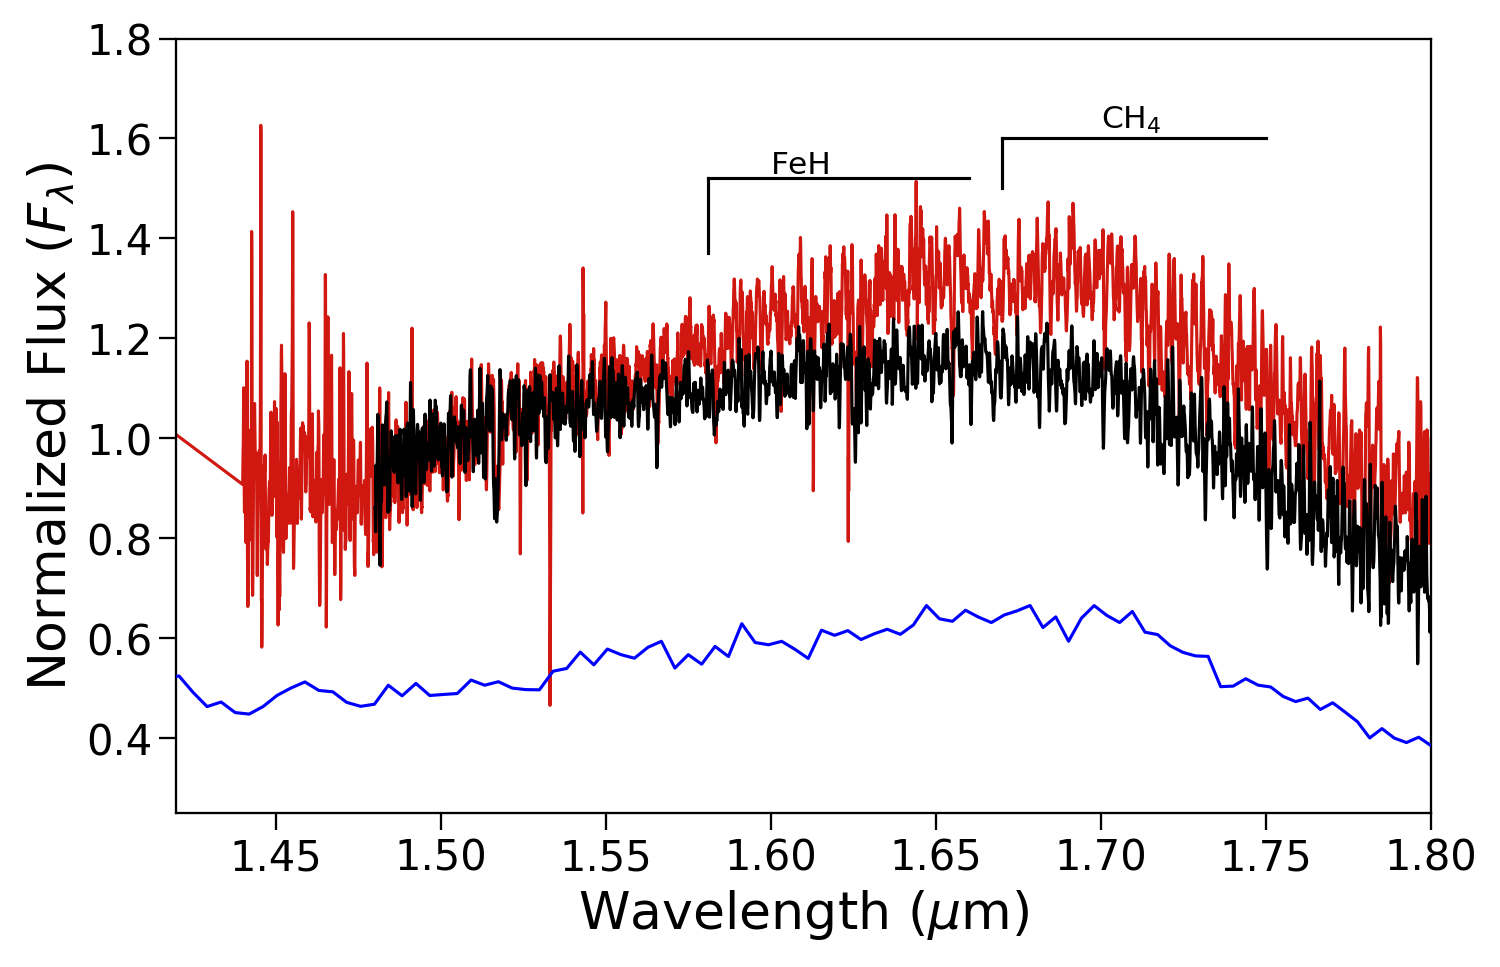
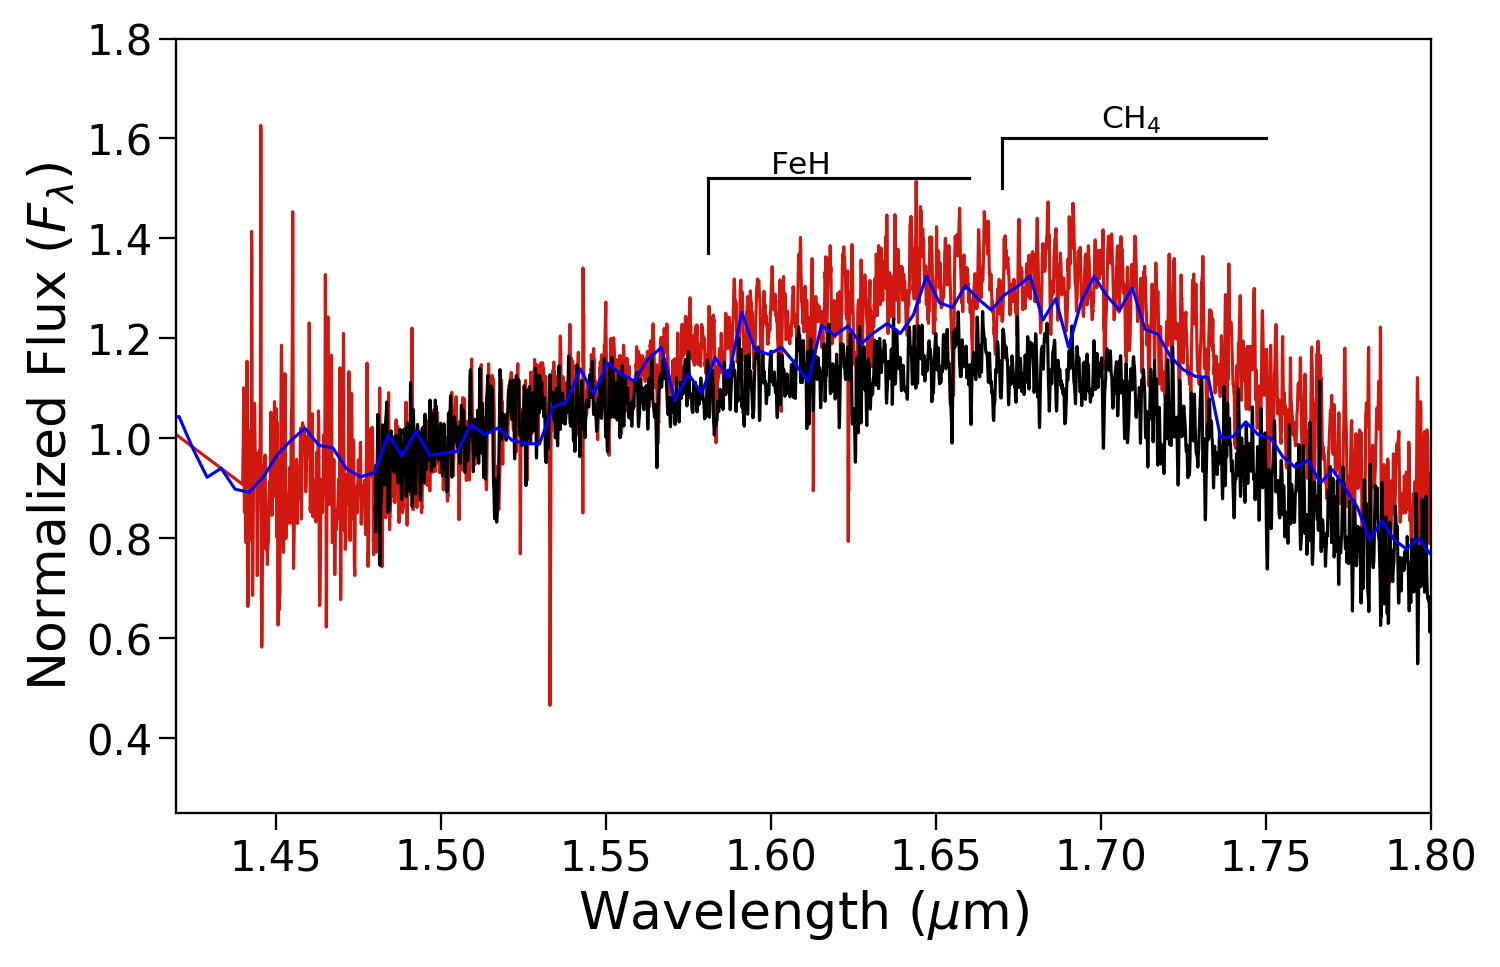
All though of comparisons fro Trappist paper.

diff --git a/JHKband_oldcomp.py b/JHKband_oldcomp.py
@@ -1,0 +1,145 @@
+import pandas as pd
+import numpy as np
+import matplotlib.pyplot as plt
+
+# ------------------------------------------------------------------------------------
+# ------------------- Read in Spectra and Photometry files ---------------------------
+# ------------------------------------------------------------------------------------
+# Read  all in as pandas dataframes
+
+df_trap = pd.read_csv('Data/FIRE2306-0502 (M7.5) SED.txt', sep=" ", comment='#', header=None,
+                      names=["w", "f", "err"])
+
+# -------------- Comparison objects of the same Teff (old) ----------------------------------
+df_GJ660 = pd.read_csv('Data/old_comp/spectra_gj6601b.txt', sep="\t", comment='#', header=0,
+                       names=["w", "f", "err"])
+df_1013 = pd.read_csv('../Atmospheres_paper/Data/1013-1356 (-) SED.txt', sep=" ", comment='#', header=None,
+                      names=["w", "f", "err"])
+
+# -------------------------------------------------------------------------------------
+# ---------------------- Remove Tails ------------------------------------------------
+# -------------------------------------------------------------------------------------
+df_GJ660 = df_GJ660[(df_GJ660['w'] > 0.7) & (df_GJ660['w'] <= 3)]
+
+# -------------------------------------------------------------------------------------
+# ------------------------- Normalize the spectra -------------------------------------
+# -------------------------------------------------------------------------------------
+# Determine region good for all spectra to take the average flux over
+norm_region = df_trap[(df_trap['w'] >= 1.29) & (df_trap['w'] <= 1.31)]
+norm_df_trap = df_trap['f']/(np.average(norm_region['f']))
+
+norm_region2 = df_GJ660[(df_GJ660['w'] >=1.29) & (df_GJ660['w'] <= 1.31)]
+norm_df_GJ660 = df_GJ660['f']/(np.average(norm_region2['f']))
+
+norm_region3 = df_1013[(df_1013['w'] >= 1.29) & (df_1013['w'] <= 1.31)]
+norm_df_1013 = df_1013['f']/(np.average(norm_region3['f']))
+
+# -------------------------------------------------------------------------------------
+# ------------------------- Plotting: J band comparison -------------------------------
+# -------------------------------------------------------------------------------------
+# -----------Stacked Plot for shape comparison ------------
+# ------ Set up figure layout --------
+fig = plt.figure()
+ax1 = fig.add_subplot(111)
+fig.set_size_inches(10, 6.45)
+plt.gcf().subplots_adjust(bottom=0.15, left=0.15)
+plt.xlim([1.12, 1.35])
+plt.ylim([0, 1.6])
+for axis in ['top', 'bottom', 'left', 'right']:  # Thicken the frame
+    ax1.spines[axis].set_linewidth(1.1)
+
+
+# ------Tick size and Axes Labels --------
+ax1.tick_params(axis='both', labelsize=20, length=8, width=1.1)
+plt.xlabel('Wavelength ($\mu$m)', fontsize=25)
+plt.ylabel('Normalized Flux ($F_\lambda$)', fontsize=25)
+
+# -------- Add data -----------
+ax1.plot(df_trap['w'], norm_df_trap, c='k', zorder=5)  # #7C7D70
+ax1.plot(df_GJ660['w'], norm_df_GJ660, c='#07D1E8', zorder=6)
+ax1.plot(df_1013['w'], norm_df_1013, c='#0822FF')
+
+plt.tight_layout()
+plt.savefig('Figures/Jbandoldcomp_stack.png', dpi=150)
+
+# --------------------- H BAND --------------------
+# -------------------------------------------------------------------------------------
+# ------------------------- Normalize the spectra -------------------------------------
+# -------------------------------------------------------------------------------------
+# Determine region good for all spectra to take the average flux over
+norm_region = df_trap[(df_trap['w'] >= 1.5) & (df_trap['w'] <= 1.52)]
+norm_df_trap = df_trap['f']/(np.average(norm_region['f']))
+
+norm_region2 = df_GJ660[(df_GJ660['w'] >= 1.5) & (df_GJ660['w'] <= 1.52)]
+norm_df_GJ660 = df_GJ660['f']/(np.average(norm_region2['f']))
+
+norm_region3 = df_1013[(df_1013['w'] >= 1.5) & (df_1013['w'] <= 1.52)]
+norm_df_1013 = df_1013['f']/(np.average(norm_region3['f']))
+# -------------------------------------------------------------------------------------
+# ------------------------- Plotting: H band comparison -------------------------------
+# -------------------------------------------------------------------------------------
+# -----------Stacked Plot for shape comparison ------------
+# ------ Set up figure layout --------
+fig = plt.figure()
+ax1 = fig.add_subplot(111)
+fig.set_size_inches(10, 6.45)
+plt.gcf().subplots_adjust(bottom=0.15, left=0.15)
+plt.xlim([1.42, 1.8])
+plt.ylim([0, 1.6])
+for axis in ['top', 'bottom', 'left', 'right']:  # Thicken the frame
+    ax1.spines[axis].set_linewidth(1.1)
+
+
+# ------Tick size and Axes Labels --------
+ax1.tick_params(axis='both', labelsize=20, length=8, width=1.1)
+plt.xlabel('Wavelength ($\mu$m)', fontsize=25)
+plt.ylabel('Normalized Flux ($F_\lambda$)', fontsize=25)
+
+# -------- Add data -----------
+ax1.plot(df_trap['w'], norm_df_trap, c='k', zorder=5)  # #7C7D70
+ax1.plot(df_GJ660['w'], norm_df_GJ660, c='#07D1E8', zorder=6)
+ax1.plot(df_1013['w'], norm_df_1013, c='#0822FF')
+
+plt.tight_layout()
+plt.savefig('Figures/Hbandoldcomp_stack.png', dpi=150)
+
+# ------------------------ K BAND ------------------
+# -------------------------------------------------------------------------------------
+# ------------------------- Normalize the spectra -------------------------------------
+# -------------------------------------------------------------------------------------
+# Determine region good for all spectra to take the average flux over
+norm_region = df_trap[(df_trap['w'] >= 2.16) & (df_trap['w'] <= 2.20)]
+norm_df_trap = df_trap['f']/(np.average(norm_region['f']))
+
+norm_region2 = df_GJ660[(df_GJ660['w'] >= 2.16) & (df_GJ660['w'] <= 2.20)]
+norm_df_GJ660 = df_GJ660['f']/(np.average(norm_region2['f']))
+
+norm_region3 = df_1013[(df_1013['w'] >= 2.16) & (df_1013['w'] <= 2.20)]
+norm_df_1013 = df_1013['f']/(np.average(norm_region3['f']))
+# -------------------------------------------------------------------------------------
+# ------------------------- Plotting: K band comparison -------------------------------
+# -------------------------------------------------------------------------------------
+# -----------Stacked Plot for shape comparison ------------
+# ------ Set up figure layout --------
+fig = plt.figure()
+ax1 = fig.add_subplot(111)
+fig.set_size_inches(10, 6.45)
+plt.gcf().subplots_adjust(bottom=0.15, left=0.15)
+plt.xlim([2, 2.35])
+plt.ylim([0, 1.6])
+for axis in ['top', 'bottom', 'left', 'right']:  # Thicken the frame
+    ax1.spines[axis].set_linewidth(1.1)
+
+
+# ------Tick size and Axes Labels --------
+ax1.tick_params(axis='both', labelsize=20, length=8, width=1.1)
+plt.xlabel('Wavelength ($\mu$m)', fontsize=25)
+plt.ylabel('Normalized Flux ($F_\lambda$)', fontsize=25)
+
+# -------- Add data -----------
+ax1.plot(df_trap['w'], norm_df_trap, c='k', zorder=5)  # #7C7D70
+ax1.plot(df_GJ660['w'], norm_df_GJ660, c='#07D1E8', zorder=6)
+ax1.plot(df_1013['w'], norm_df_1013, c='#0822FF')
+
+plt.tight_layout()
+plt.savefig('Figures/Kbandoldcomp_stack.png', dpi=150)

diff --git a/Trappist_V_d-sds.py b/Trappist_V_d-sds.py
@@ -1,0 +1,86 @@
+import pandas as pd
+import matplotlib.pyplot as plt
+from matplotlib.ticker import ScalarFormatter
+import numpy as np
+
+# ------------------------------------------------------------------------------------
+# ------------------- Read in Spectra and Photometry files ---------------------------
+# ------------------------------------------------------------------------------------
+# Read  all in as pandas dataframes
+
+df_trap = pd.read_csv('Data/smoothed2306-0502 (M7.5) SED.txt', sep=" ", comment='#', header=None,
+                      names=["w", "f", "err"])
+df_trap_phot = pd.read_csv('Data/FIRE2306-0502 (M7.5) phot.txt', sep=" ", comment='#', header=None,
+                           names=["w", "f", "err"])
+
+# ------ d/sd comparisons (shape is most similar) -----------------------
+df_GJ660 = pd.read_csv('Data/old_comp/spectra_gj6601b.txt', sep="\t", comment='#', header=0,
+                       names=["w", "f", "err"])
+df_GJ660_phot = pd.read_csv('Data/old_comp/phot_gj6601b.txt', sep="\t", comment='#', header=0,
+                            names=["w", "f", "err"])
+df_HD = pd.read_csv('../Atmospheres_paper/Data/HD114762B (M9sd) SED.txt', sep=" ", comment='#', header=None,
+                    names=["w", "f", "err"])
+df_HD_phot = pd.read_csv('../Atmospheres_paper/Data/HD114762B (M9sd) phot.txt', sep=" ", comment='#', header=None,
+                         names=["w", "f", "err"])
+
+# -------------------------------------------------------------------------------------
+# ------------------------- Normalize the spectra -------------------------------------
+# -------------------------------------------------------------------------------------
+# Determine region good for all spectra to take the average flux over
+max = np.max(df_trap['f'])
+norm_df_trap = df_trap['f']/max
+
+max1 = np.max(df_GJ660['f'])
+norm_df_GJ660 = df_GJ660['f']/max1
+
+max2 = np.max(df_HD['f'])
+norm_df_HD = df_HD['f']/max2
+
+# -------------------------------------------------------------------------------------
+# ------------------- Plotting: Old Comparison of same Teff -------------------------------
+# -------------------------------------------------------------------------------------
+# ------ Set up figure layout --------
+fig = plt.figure()
+ax1 = fig.add_subplot(111)
+fig.set_size_inches(10, 6.45)  # to make sure proper size run entire code at once and change 8 to 6.45 to
+plt.gcf().subplots_adjust(bottom=0.15, left=0.15)  # match other plots on github (the size will change if done in pieces
+for axis in ['top', 'bottom', 'left', 'right']:  # Thicken the frame
+    ax1.spines[axis].set_linewidth(1.1)
+
+# -------- Add data -----------
+ax1.loglog(df_trap['w'], norm_df_trap, c='k', zorder=22)
+#ax1.scatter(df_trap_phot['w'], df_trap_phot['f'], c='k', s=70, zorder=23)
+
+ax1.loglog(df_GJ660['w'], norm_df_GJ660, c='#07D1E8')
+#ax1.scatter(df_GJ660_phot['w'], df_GJ660_phot['f'], c='k', s=70)
+#ax1.scatter(df_GJ660_phot['w'], df_GJ660_phot['f'], c='#07D1E8', s=50)
+
+ax1.loglog(df_HD['w'], norm_df_HD, c='#05A3FF', zorder=24)     # 200K warmer,but strangle fits very well
+#ax1.scatter(df_HD_phot['w'], df_HD_phot['f'], c='k', s=70)
+#ax1.scatter(df_HD_phot['w'], df_HD_phot['f'], c='#05A3FF', s=50)
+
+# ----- Set axes limits, reformat ticks -----------
+plt.xlim([0.9, 2.35])
+plt.ylim([10**(-1), 1.5])
+ax1.xaxis.set_major_formatter(ScalarFormatter())
+ax1.xaxis.set_minor_formatter(ScalarFormatter())
+ax1.xaxis.set_minor_locator(plt.FixedLocator([0.5, 0.7, 2, 3, 13]))
+ax1.tick_params(axis='both', which='major', labelsize=20, length=8, width=1.1)
+ax1.tick_params(axis='both', which='minor', labelsize=20, length=4, width=1.1)
+plt.yticks(fontsize=20)
+
+# ------ Axes Labels --------
+plt.xlabel('Wavelength ($\mu m$)', fontsize=25)
+plt.ylabel('Flux  ($erg\ s^{-1} cm^{-2} A^{-1}$)', fontsize=25)
+
+# ------ Labeling Objects --------
+ax1.annotate('Trappist-1 (M7.5) ', xy=(3, 10**(-14)), color='k', fontsize=15)
+ax1.annotate('$T_\mathrm{eff}: 2589 \pm 49$ K', xy=(3, 6*10**(-15)), color='k', fontsize=15)
+ax1.annotate('J1013-1356 (sdM9.5)', xy=(3, 3*10**(-17)), color='#0822FF', fontsize=15)
+ax1.annotate('$T_\mathrm{eff}: 2606 \pm 32$ K', xy=(3, 1.7*10**(-17)), color='#0822FF', fontsize=15)
+ax1.annotate('GJ660.1B (d/sdM7)', xy=(1, 6*10**(-16)), color='#07D1E8', fontsize=15)
+ax1.annotate('$T_\mathrm{eff}: 2642 \pm 102$ K', xy=(1, 3.5*10**(-16)), color='#07D1E8', fontsize=15)
+
+
+plt.tight_layout()
+plt.savefig('Figures/olf_comp.png', dpi=150)

diff --git a/HbandBestfit.py b/HbandBestfit.py
@@ -26,7 +26,7 @@ norm_df_trap = df_trap['f']/(np.average(norm_region['f']))
 norm_region2 = df_2154[(df_2154['w'] >= 1.5) & (df_2154['w'] <= 1.52)]
 norm_df_young = df_2154['f']/(np.average(norm_region2['f']))
 
-norm_region3 = df_HD[(df_HD['w'] >= 1.29) & (df_HD['w'] <= 1.31)]
+norm_region3 = df_HD[(df_HD['w'] >= 1.5) & (df_HD['w'] <= 1.52)]
 norm_df_old = df_HD['f']/(np.average(norm_region3['f']))
 
 # -------------------------------------------------------------------------------------
